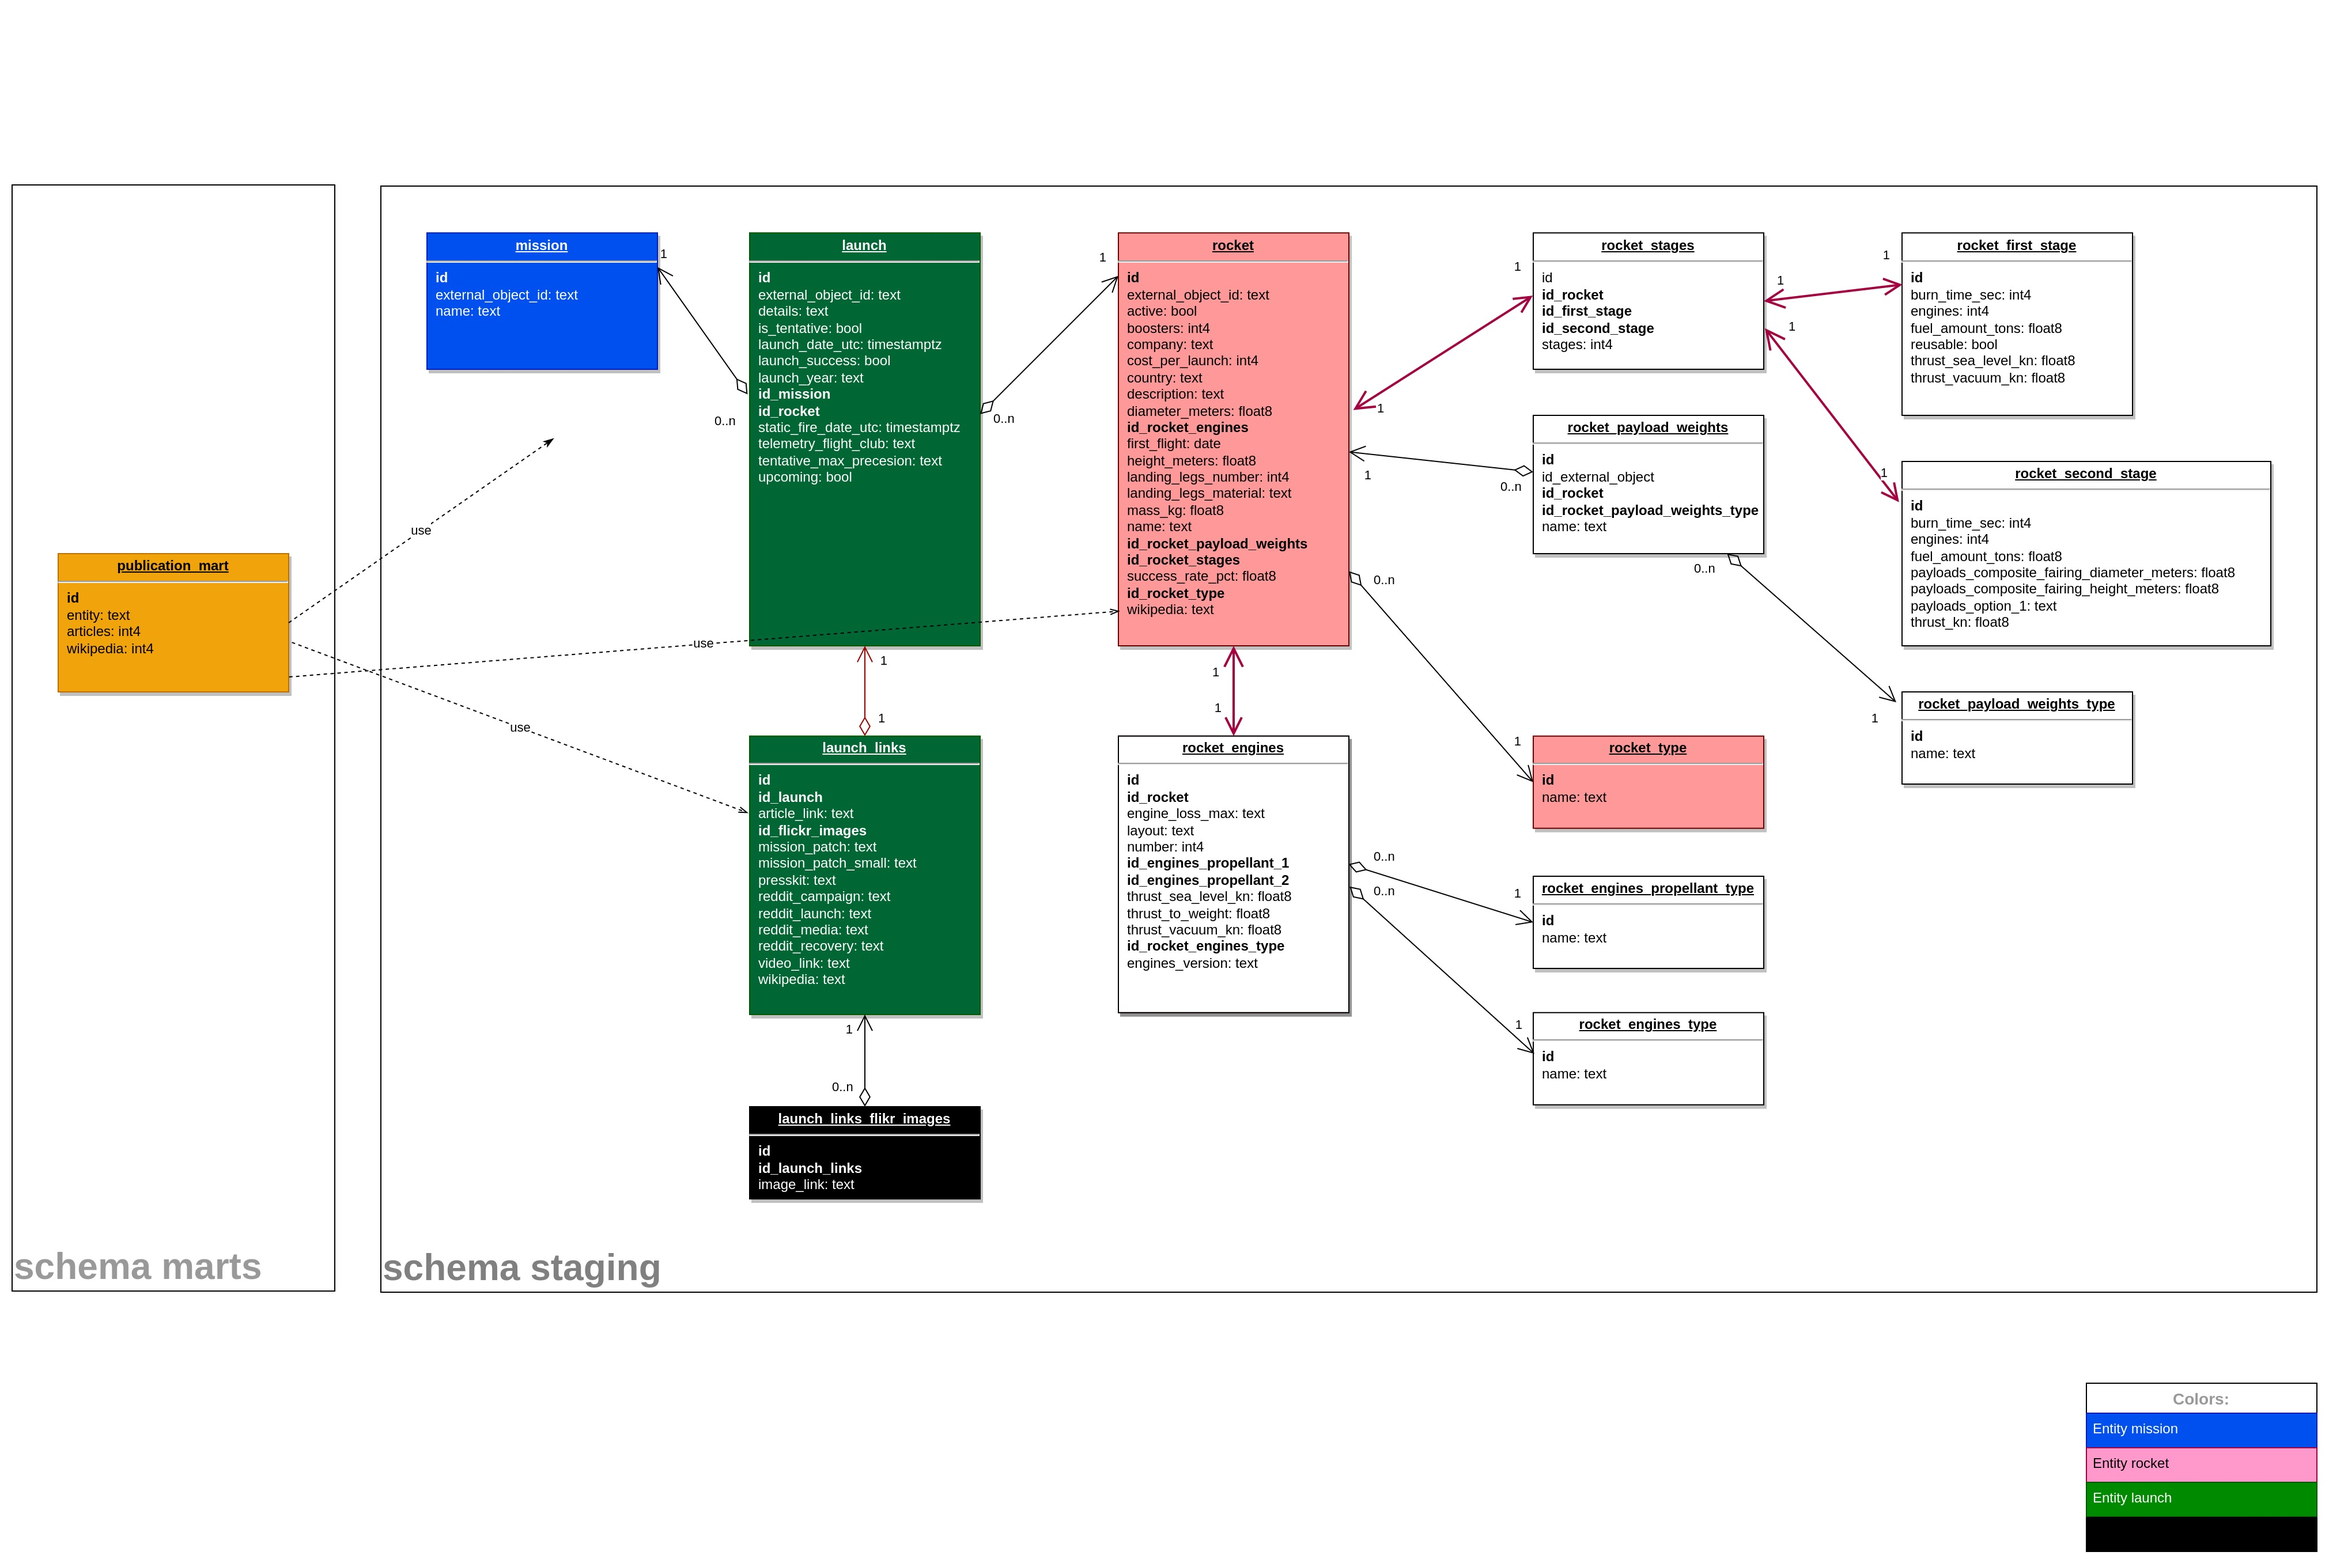
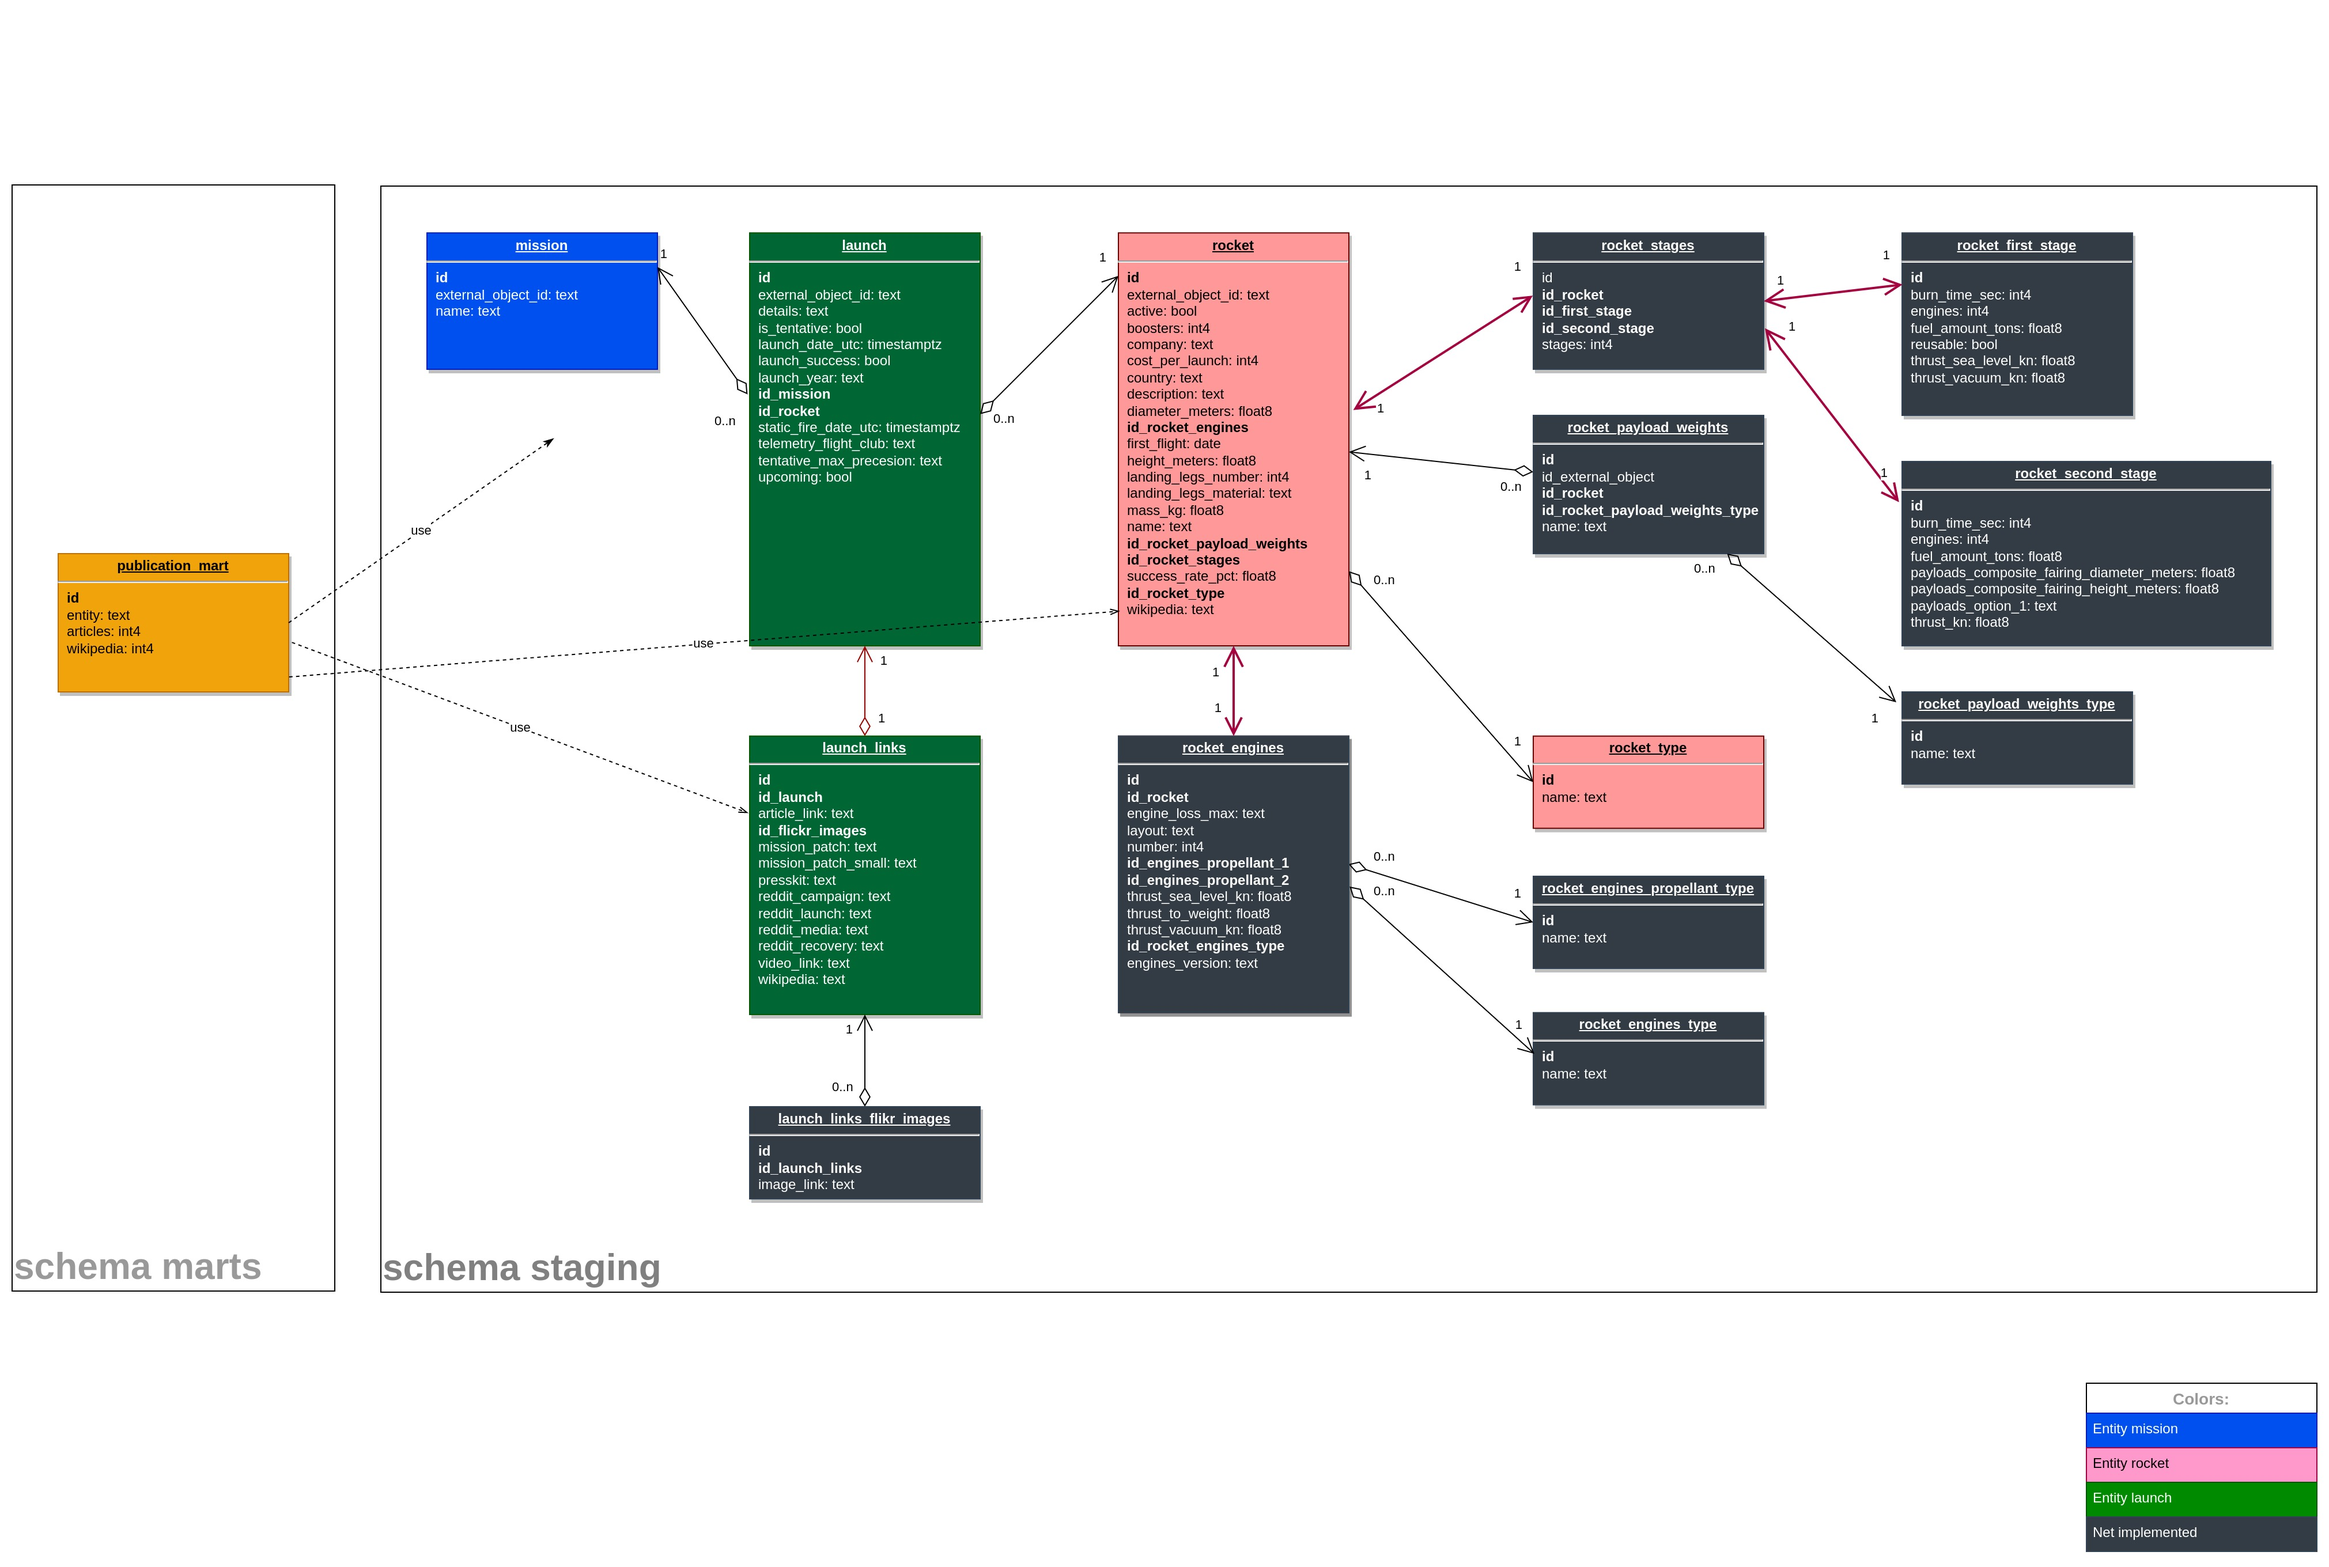
Data Model fixed

diff --git a/README.md b/README.md
@@ -49,8 +49,8 @@ https://docs.google.com/document/d/10Hc8UN-vwCFa-6gO-8Lra1HUCkA6JteV/edit
      - Gathers data from Postgres DB schema `staging`
      - Makes a Data Mart `publication` and stores it in schema `marts`
 - Designed Data Model with Data Marts:
-  - [Data Model (drawio)](doc/Application_Data_Flow.drawio) 
-  - [Data Model (jpg)](doc/Application_Data_Flow.jpg)
+  - [Data Model (drawio)](doc/Data_Model.drawio) 
+  - [Data Model (jpg)](doc/Data_Model.jpg)
 - Project published on github: https://github.com/pr0xtti/greenadam
 
 
@@ -58,14 +58,17 @@ https://docs.google.com/document/d/10Hc8UN-vwCFa-6gO-8Lra1HUCkA6JteV/edit
 Application can be started with docker compose.
 Docker compose will run this hierarchy:
 
-- greenadam-services (container, will be build)
-  - supervisord
-    - extractor.sh
-      - ./collective/extractor.py
-    - martmaker.sh
-      - ./collective/martmaker.py
-- greenadam-postgres (container postgres)
-  - postgres
+```
+greenadam-services (container, will be build)
+    supervisord
+        extractor.sh
+            ./collective/extractor.py
+        martmaker.sh
+            ./collective/martmaker.py
+
+greenadam-postgres (container postgres)
+    postgres
+```
 
 All python source located in folder collective.
 Supervisord runs in nodaemon mode and outputs from services to stdout and stderr.
